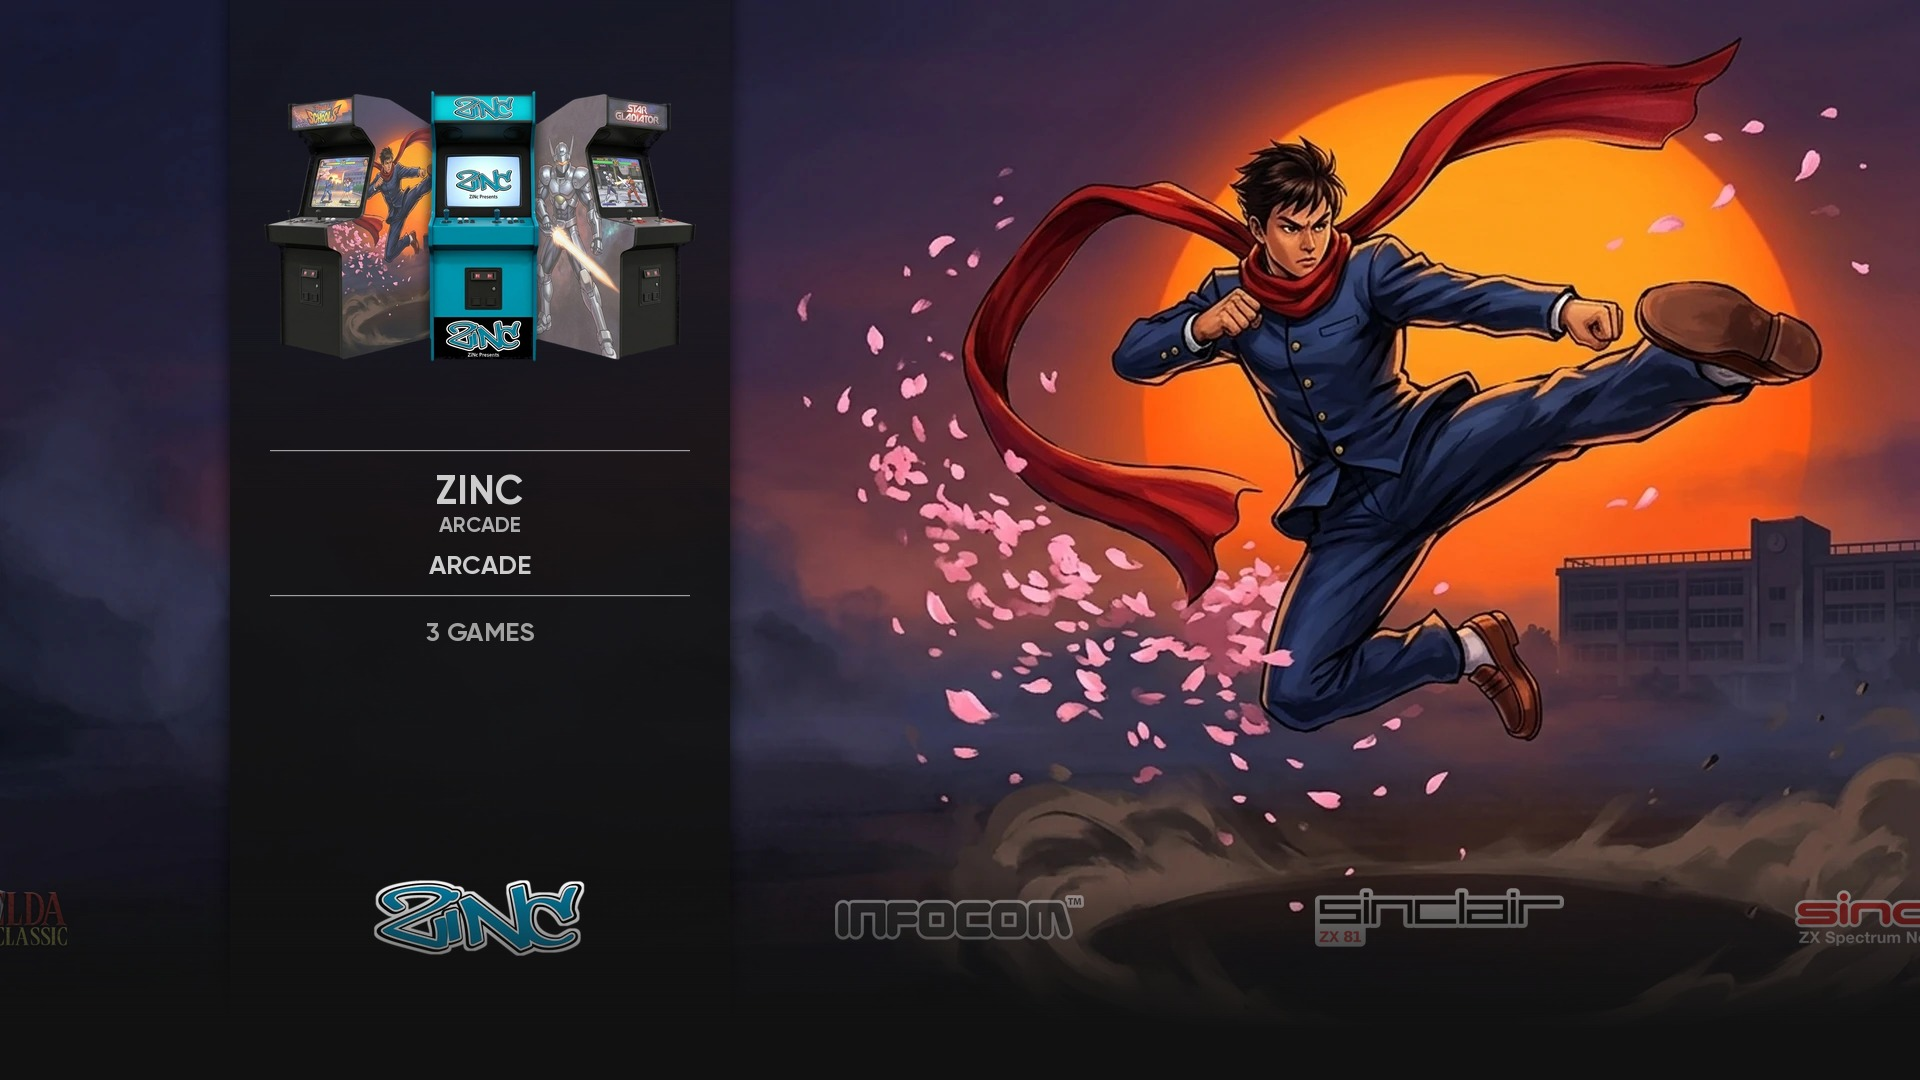
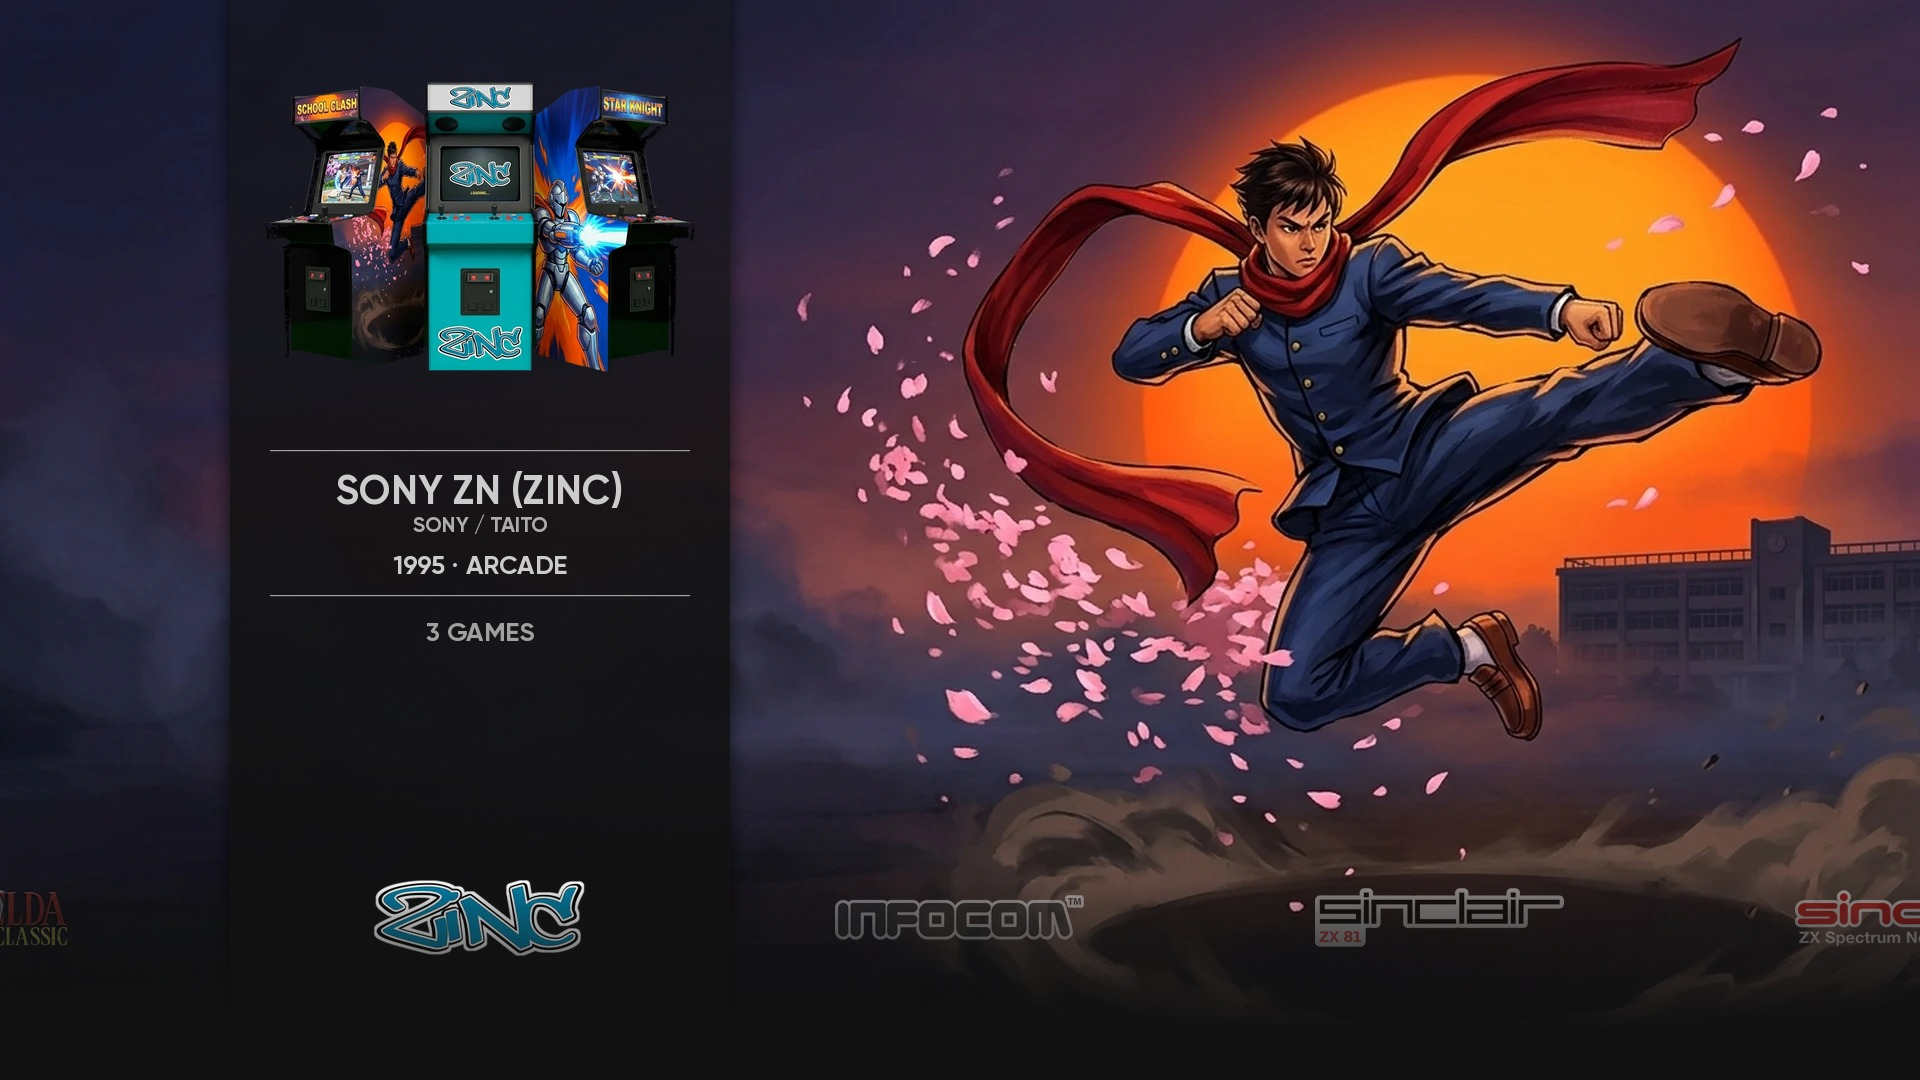
Zinc: redo three-cabinet image with black, saturated side cabinets
Previous side cabinets were too faded. Faded v1 kept in replaced/ and sources/zinc.

Claude-Session: https://claude.ai/code/session_01B7tWnGzhwYXUpjDmxMAoUT

Changed region(s): [[0.125, 0.0611, 0.375, 0.3667], [0.1562, 0.4278, 0.3125, 0.55]]

diff --git a/PROMPTS.md b/PROMPTS.md
@@ -378,3 +378,4 @@ Sit-down systems keep a single sit-down cabinet (user decision).
 - gaelco - Radikal Bikers-style: original pizza courier on an orange scooter splashing through a rainy neon city street, pizza boxes flying; a taxi in the left area was removed with a Gemini edit. Controller: PixN Carbon Gaelco A.V. TRACK cabinet.
 - unis - Sky Kart-style (original): teal-ponytail girl in a yellow helmet and orange suit driving a pink go-kart with a rainbow trail, balloons and confetti on the right; first two versions rejected (Mario-like look; balloons on the left). Cabinets: UNIS blue centre cabinet, left SKY KART, right TICKET RUSH (invented games).
 - rawthrills - The Fast and the Furious-style: unbadged yellow sports coupe with black stripes jumping a ramp through a fireball at dusk; fire trail dimmed out of the left area.
+- zinc redo 2026-10-10: three-cabinet prompt with "both side cabinets must have solid GLOSSY BLACK bodies and be as rich, bright and fully saturated as the centre cabinet. NOT faded, NOT grey, NOT washed out"; refs = cps2_grey, zinc logo, zinc background; sides SCHOOL CLASH / STAR KNIGHT (original).

diff --git a/NIGHTLY_LOG.md b/NIGHTLY_LOG.md
@@ -418,3 +418,5 @@ NAS SYNC PENDING (NAS not mounted): copy to /Volumes/stuff/Emulation/TPN Iconic 
 - Systems completed: tonight 5 (igspgm, zinc, gaelco, unis, rawthrills); total done so far = 51 (section A)
 - Systems left: 68 (B1 22, C 36, D 0, E 10)
 - Nights to complete: 14 at 5 per night (23 at 3 per night)
+
+- 2026-10-10 zinc REDONE after user feedback (side cabinets too faded): new Gemini three-cabinet group with glossy BLACK side cabinets and vivid vinyl (original SCHOOL CLASH and STAR KNIGHT games). Raw: sources/zinc/zinc_cab_3cab_v2_black_gemini_raw.jpeg; faded v1 kept as sources/zinc/zinc_cab_v1_faded.png and replaced/controllers-zinc-v1faded.webp. Installed _inc/controllers/zinc.webp, mockups/zinc.jpg. Lesson: for the side cabinets always say "glossy black bodies, fully saturated, NOT faded/grey" (also aleck64). NAS sync pending adds: new zinc raw and mockup; zip iconic-tpn_20261010_b.zip.
